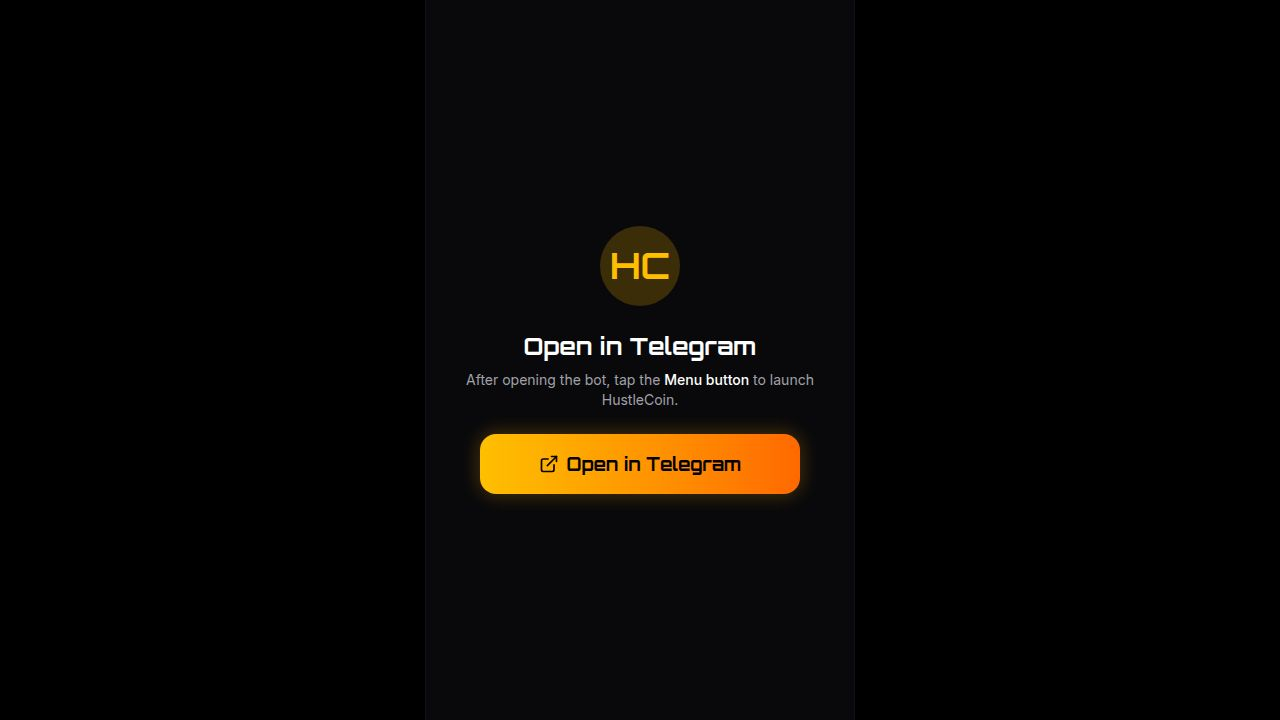
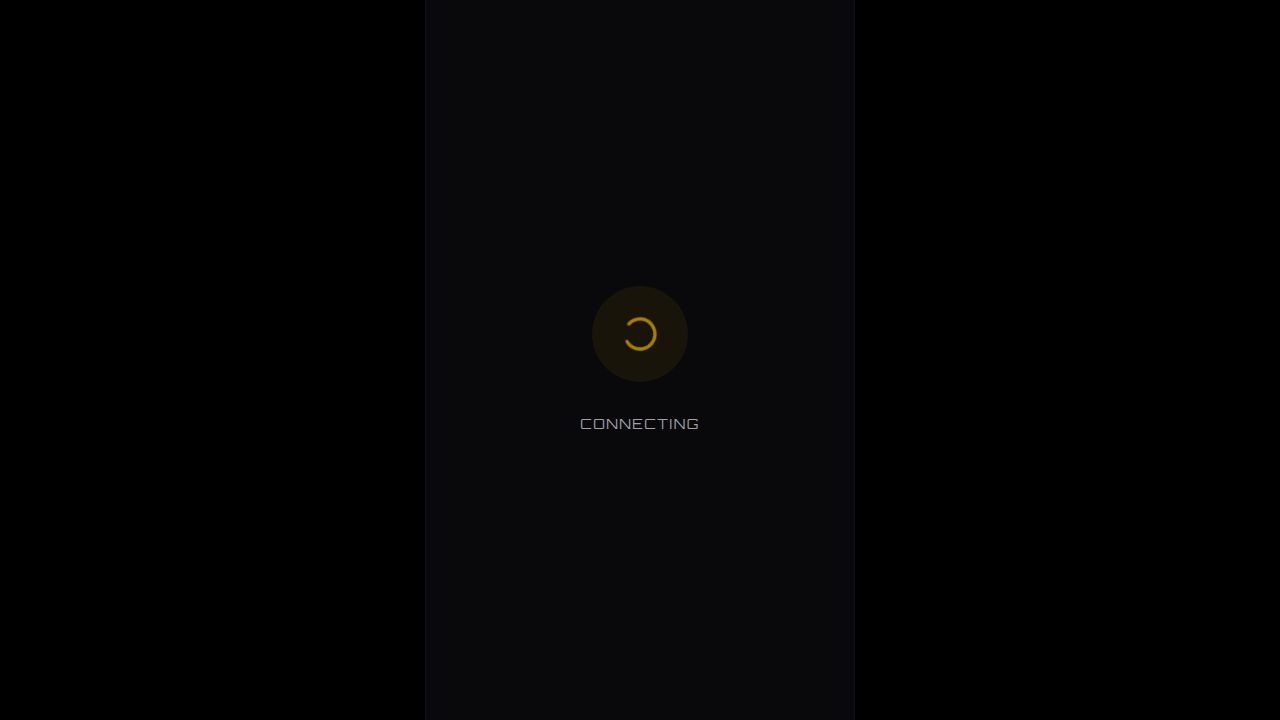
Improve the visibility and usability of the claim rewards button
Add development bypass for authentication and enable dev_state query parameter to preview UI states.

Replit-Commit-Author: Agent
Replit-Commit-Session-Id: 87ccb316-29f7-4ed5-8f9f-6a6f605f91b7
Replit-Commit-Checkpoint-Type: full_checkpoint
Replit-Commit-Event-Id: aa3c94d3-8ea2-4692-9e57-7ea1ddd782ef
Replit-Commit-Screenshot-Url: https://storage.googleapis.com/screenshot-production-us-central1/a7ba701f-6ee2-4ba9-b5e6-91cef9eb87e0/87ccb316-29f7-4ed5-8f9f-6a6f605f91b7/vDB8zvm

Changed region(s): [[0.3438, 0.3056, 0.625, 0.7028]]

diff --git a/artifacts/hustlecoin/src/contexts/AuthContext.tsx b/artifacts/hustlecoin/src/contexts/AuthContext.tsx
@@ -18,13 +18,27 @@ const AuthContext = createContext<AuthContextType>({
 
 export const useAuth = () => useContext(AuthContext);
 
+const DEV_BYPASS = import.meta.env.VITE_ALLOW_DEV_BYPASS === "true";
+const DEV_USER_ID = import.meta.env.VITE_DEV_USER_ID || "999888777";
+
 export const AuthProvider: React.FC<{ children: React.ReactNode }> = ({ children }) => {
-  const [isTelegramAvailable, setIsTelegramAvailable] = useState(true);
+  const [isTelegramAvailable, setIsTelegramAvailable] = useState(DEV_BYPASS ? true : true);
   const queryClient = useQueryClient();
   const { data: user, isLoading: isMeLoading } = useGetMe();
   const authMutation = useTelegramAuth();
 
   useEffect(() => {
+    if (DEV_BYPASS) {
+      if (!user && !isMeLoading) {
+        authMutation.mutate({ data: { initData: `dev_bypass:${DEV_USER_ID}` } }, {
+          onSuccess: () => {
+            queryClient.invalidateQueries({ queryKey: getGetMeQueryKey() });
+          }
+        });
+      }
+      return;
+    }
+
     const webApp = window.Telegram?.WebApp;
     
     if (!webApp || !webApp.initData) {

diff --git a/artifacts/hustlecoin/src/pages/home.tsx b/artifacts/hustlecoin/src/pages/home.tsx
@@ -104,7 +104,10 @@ export default function Home() {
     });
   };
 
-  if (isStatusLoading) {
+  const DEV_BYPASS = import.meta.env.VITE_ALLOW_DEV_BYPASS === "true";
+  const devState = DEV_BYPASS ? new URLSearchParams(window.location.search).get("dev_state") : null;
+
+  if (!devState && isStatusLoading) {
     return (
       <div className="w-full h-full flex flex-col items-center justify-center">
         <div className="w-24 h-24 bg-primary/10 rounded-full flex items-center justify-center animate-pulse mb-8">
@@ -115,9 +118,9 @@ export default function Home() {
     );
   }
 
-  const isMining = status?.state === "mining";
-  const isClaimable = status?.state === "claimable";
-  const isIdle = status?.state === "idle";
+  const isMining = devState === "mining" || status?.state === "mining";
+  const isClaimable = devState === "claimable" || status?.state === "claimable";
+  const isIdle = !isMining && !isClaimable && (devState === "idle" || status?.state === "idle" || (!devState && !status?.state));
 
   return (
     <div className="p-6 flex flex-col pt-8 space-y-8 relative">

diff --git a/artifacts/hustlecoin/src/components/Layout.tsx b/artifacts/hustlecoin/src/components/Layout.tsx
@@ -5,6 +5,8 @@ import { useAuth } from "@/contexts/AuthContext";
 import { Loader2 } from "lucide-react";
 import { useGetNotificationsUnreadCount } from "@workspace/api-client-react";
 
+const DEV_BYPASS = import.meta.env.VITE_ALLOW_DEV_BYPASS === "true";
+
 function buildTelegramLink(): string {
   const bot = __TELEGRAM_BOT_USERNAME__;
   return bot ? `https://t.me/${bot}` : "https://t.me";
@@ -60,7 +62,7 @@ export const Layout: React.FC<{ children: React.ReactNode }> = ({ children }) =>
     );
   }
 
-  if (isLoading || !isAuthenticated) {
+  if (!DEV_BYPASS && (isLoading || !isAuthenticated)) {
     return (
       <div className="min-h-[100dvh] w-full flex items-center justify-center bg-black">
         <div className="w-full max-w-[430px] h-[100dvh] bg-background flex flex-col items-center justify-center border-x border-border/50">